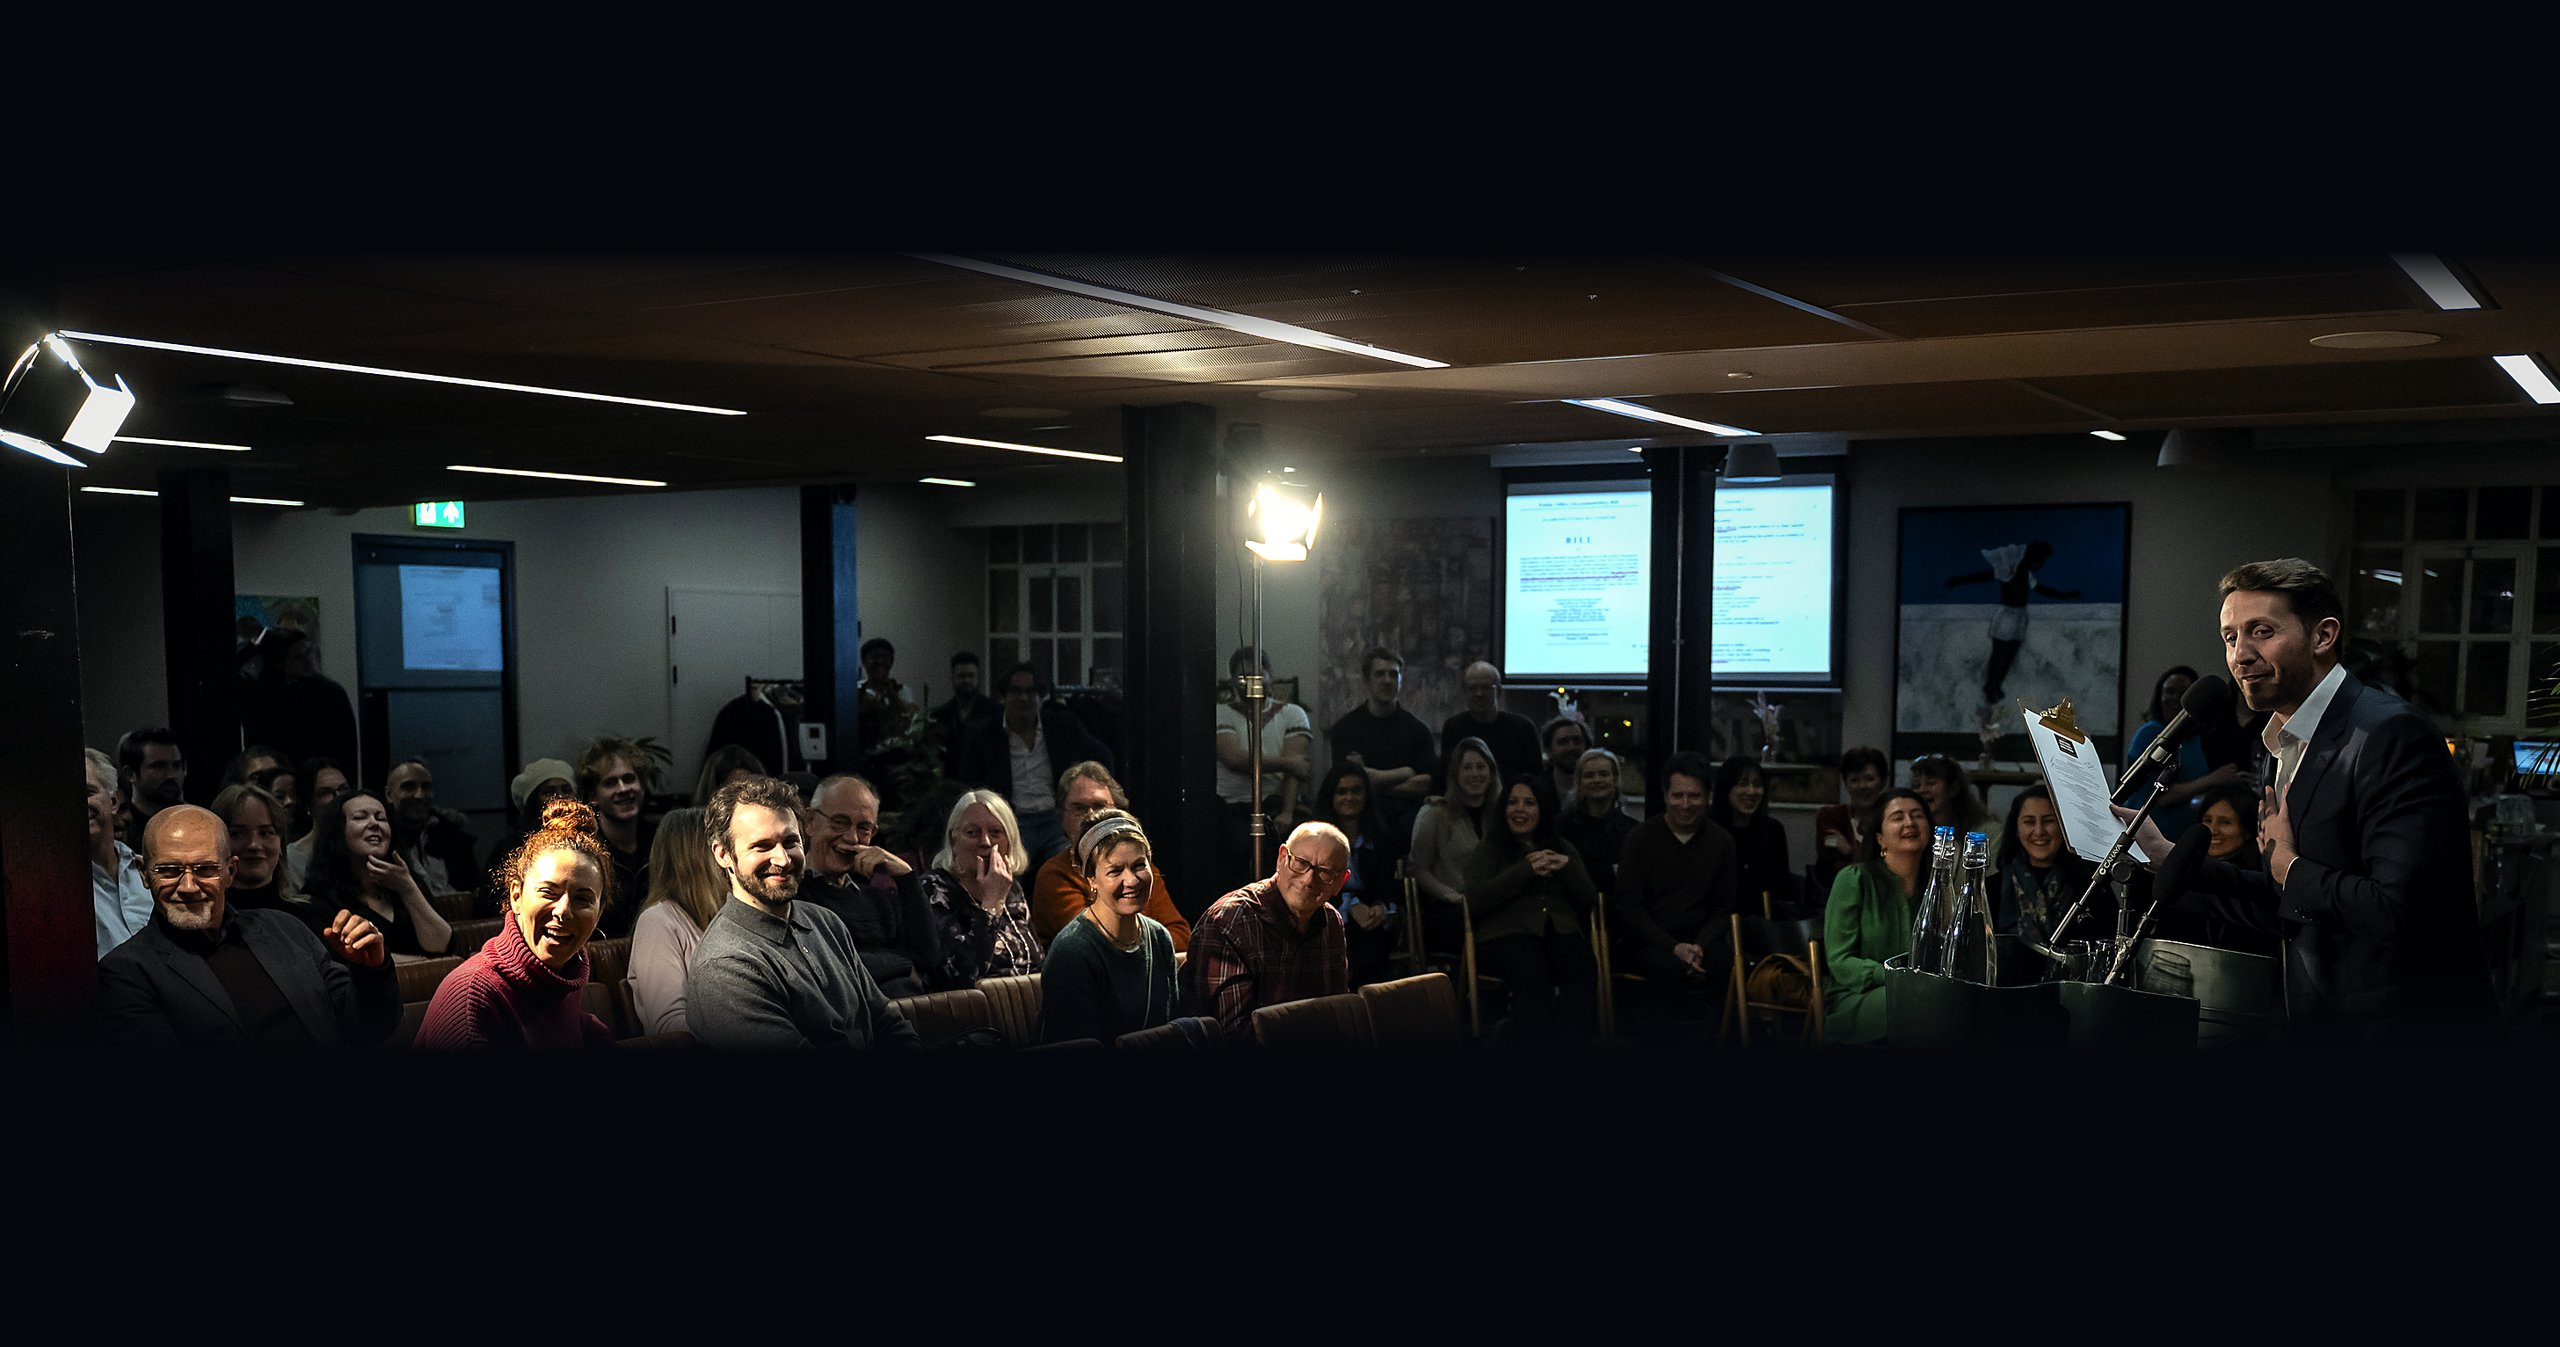
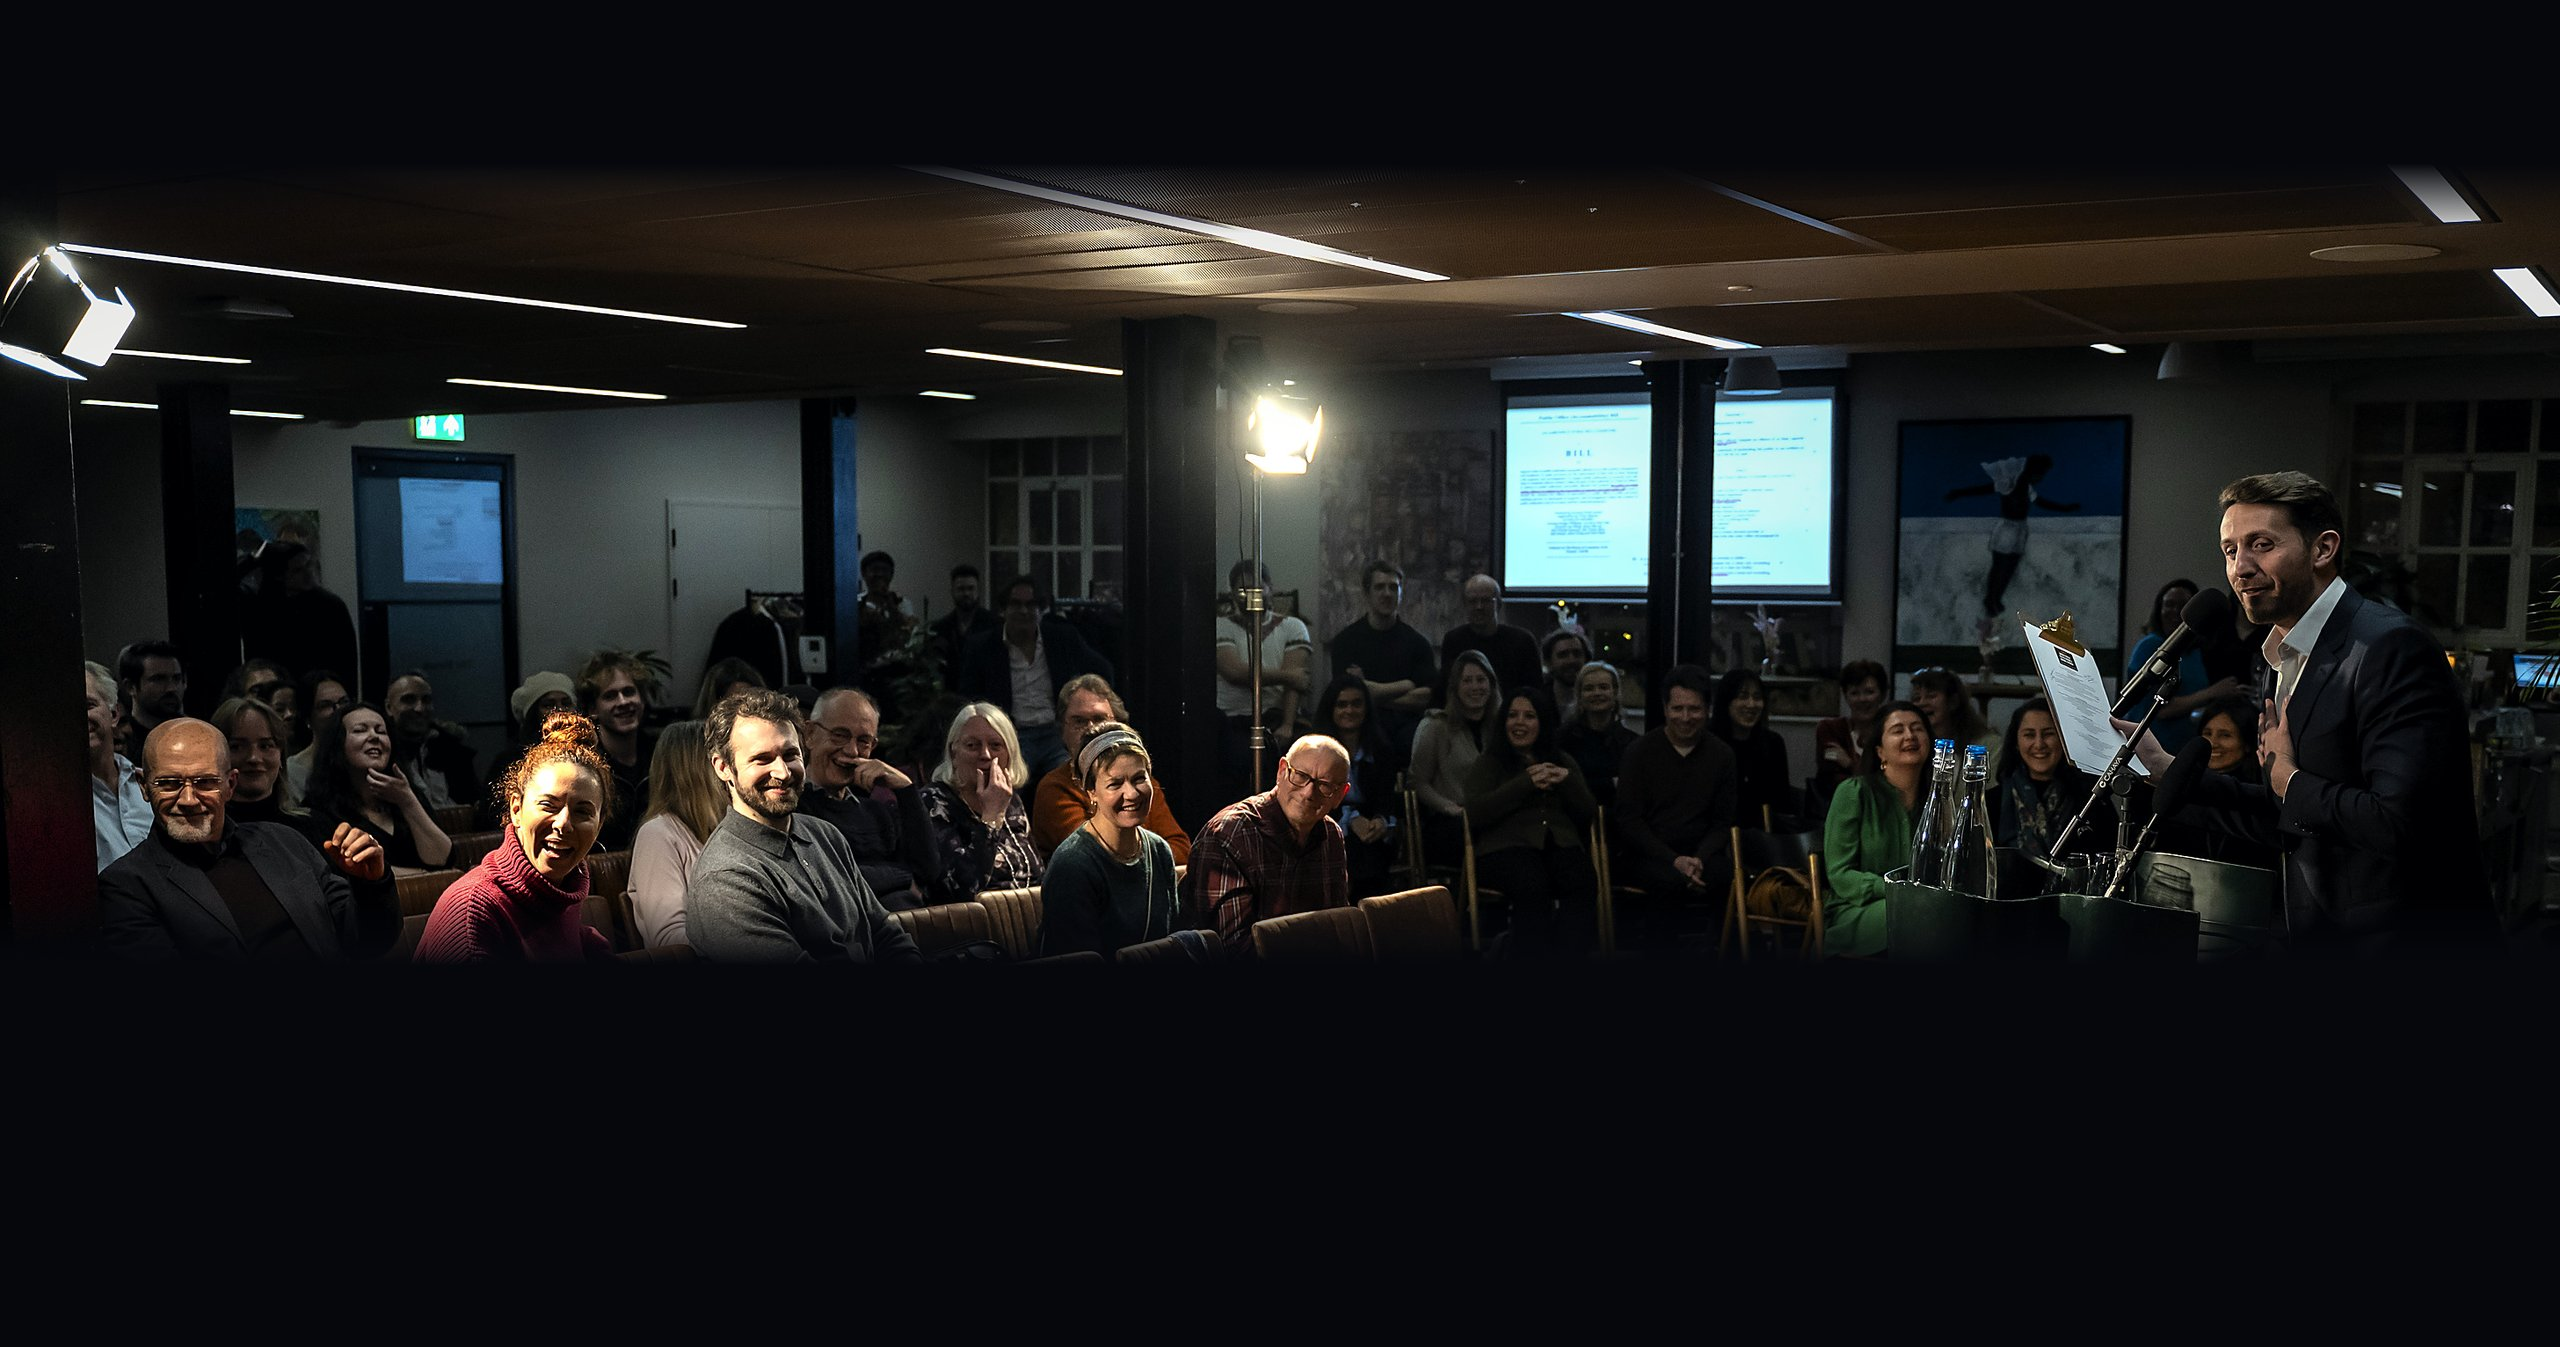
Let the audience be seen: lighter scrim, taller ticker, title back to its old height
Testimonials: the picture sits higher with a shorter feather, the left scrim and
the vignette are much lighter on this page so the laughing faces read, the ticker
is taller with bigger cards and four lines of quote, and it starts exactly where
the photograph ends. Title and Back return to 8vh, where they sat before.

Contact: lighter scrim on the left so Cathy Newman is clearly visible.

Fund button now points at execprosec.com itself.

Changed region(s): [[0.0, 0.1247, 1.0, 0.7795]]

diff --git a/index.html b/index.html
@@ -55,6 +55,20 @@
   .phead{display:block;font-size:14.5px;color:#fff;line-height:1.5}
   .prow:hover .phead{color:var(--gold)}
   @media(max-width:720px){.presspanel{left:22px;right:22px;width:auto;max-width:none}}
+  /* testimonials: the panel is short now, so pin it back to the height the title used to sit at */
+  @media(min-width:901px){body.lp-k-testimonials .presspanel{top:8vh;bottom:auto;transform:none;
+    max-height:none}}
+  /* let the faces come through: a much lighter scrim on the pages whose picture is the point */
+  @media(min-width:901px){
+    body.lp-k-testimonials .hero .grad{background:linear-gradient(95deg,rgba(5,7,12,.86) 0%,
+      rgba(5,7,12,.60) 22%,rgba(5,7,12,.26) 40%,rgba(5,7,12,.06) 58%,rgba(5,7,12,0) 76%)}
+    body.lp-k-testimonials .hero .vig{background:
+      radial-gradient(120% 110% at 60% 40%,rgba(0,0,0,0) 40%,rgba(0,0,0,.18) 70%,rgba(0,0,0,.52) 100%),
+      linear-gradient(180deg,rgba(0,0,0,.42) 0%,rgba(0,0,0,.06) 12%,rgba(0,0,0,0) 26%),
+      linear-gradient(0deg,#05070C 0%,rgba(5,7,12,.68) 14%,rgba(5,7,12,0) 32%)}
+    body.lp-k-contact .hero .grad{background:linear-gradient(95deg,rgba(5,7,12,.72) 0%,
+      rgba(5,7,12,.46) 20%,rgba(5,7,12,.20) 38%,rgba(5,7,12,.05) 56%,rgba(5,7,12,0) 74%)}
+  }
   /* contact: drop the box to the foot of the page so the interview photograph is not covered */
   @media(min-width:901px){body.lp-contact .presspanel{top:auto;bottom:54px;transform:none;width:54%;max-width:720px;max-height:none}}
   .photo-note{position:absolute;right:16px;bottom:14px;z-index:5;font-size:10.5px;letter-spacing:.1em;text-transform:uppercase;color:rgba(255,255,255,.32)}
@@ -224,13 +238,13 @@
 @media(max-width:600px){.mjb-sq{gap:0}.mjb-sqcol:nth-child(2){display:none}.mjb-sqcol{max-width:none}}
 @media(prefers-reduced-motion:reduce){.mjb-sqcolinner{animation:none}}
   /* wide screens: the quotes run along the bottom shadow instead of stacking up the page */
-  #tq-strip{position:fixed;left:0;right:0;bottom:56px;height:150px;z-index:8;overflow:hidden;display:flex;align-items:flex-end;pointer-events:none;-webkit-mask-image:linear-gradient(to right,transparent 0,#000 7%,#000 93%,transparent 100%);mask-image:linear-gradient(to right,transparent 0,#000 7%,#000 93%,transparent 100%)}
+  #tq-strip{position:fixed;left:0;right:0;bottom:48px;height:178px;z-index:8;overflow:hidden;display:flex;align-items:flex-end;pointer-events:none;-webkit-mask-image:linear-gradient(to right,transparent 0,#000 7%,#000 93%,transparent 100%);mask-image:linear-gradient(to right,transparent 0,#000 7%,#000 93%,transparent 100%)}
   #tq-strip .tq-row{display:flex;gap:14px;will-change:transform;animation:tqRun linear infinite;pointer-events:auto}
   #tq-strip:hover .tq-row{animation-play-state:paused}
   @keyframes tqRun{from{transform:translateX(0)}to{transform:translateX(-50%)}}
-  .tq-card{flex:0 0 300px;background:rgba(255,255,255,.05);border:1px solid rgba(255,255,255,.10);border-radius:2px;padding:12px 14px;transition:background .25s ease,border-color .25s ease}
+  .tq-card{flex:0 0 330px;background:rgba(255,255,255,.05);border:1px solid rgba(255,255,255,.10);border-radius:2px;padding:16px 18px;transition:background .25s ease,border-color .25s ease}
   .tq-card:hover{background:rgba(255,255,255,.09);border-color:rgba(255,255,255,.2)}
-  .tq-card p{font-size:13.5px;line-height:1.55;color:rgba(255,255,255,.85);margin:0 0 6px;display:-webkit-box;-webkit-line-clamp:3;-webkit-box-orient:vertical;overflow:hidden}
+  .tq-card p{font-size:14.5px;line-height:1.62;color:rgba(255,255,255,.9);margin:0 0 8px;display:-webkit-box;-webkit-line-clamp:4;-webkit-box-orient:vertical;overflow:hidden}
   .tq-name{font-size:11.5px;letter-spacing:.05em;color:var(--gold)}
   @media(max-width:900px){#tq-strip{display:none}}
 nav a.nav-cta{background:#fff;color:#05070C;padding:10px 20px;border-radius:2px;font-weight:600;opacity:1;letter-spacing:.16em;box-shadow:none;transition:transform .2s ease,background .2s ease}
@@ -346,7 +360,7 @@ nav a.nav-cta:hover{color:#05070C;opacity:1;transform:translateY(-2px);backgroun
       <a href="https://www.execprosec.com" target="_blank" rel="noopener">ExecProsec</a>
       <a href="https://radiatorproductions.com" target="_blank" rel="noopener">Radiator</a>
       <button onclick="openLeft('contact')">Contact</button>
-      <a class="nav-cta" href="https://www.execprosec.com/story/1" target="_blank" rel="noopener">Fund Marcus&rsquo;s work</a>
+      <a class="nav-cta" href="https://www.execprosec.com" target="_blank" rel="noopener">Fund Marcus&rsquo;s work</a>
     </nav>
   </header>
 
@@ -558,6 +572,8 @@ function openLeft(kind, fromRoute){
   var cfg=LEFT[kind]; if(!cfg) return;
   try{ tqStripKill(); }catch(e){}
   try{ document.body.classList.add('lp-open');
+       document.body.className=document.body.className.replace(/(^|\s)lp-k-\S+/g,' ').trim();
+       document.body.classList.add('lp-k-'+kind);
        document.body.classList.toggle('lp-contact', kind==='contact'); }catch(e){}
   var panel=document.getElementById('leftpanel'), cov=document.querySelector('.covered'), body=document.getElementById('leftBody');
   document.getElementById('leftTitle').textContent=cfg.title;
@@ -568,7 +584,8 @@ function openLeft(kind, fromRoute){
 }
 function closeLeft(fromRoute){
   try{ tqStripKill(); }catch(e){}
-  try{ document.body.classList.remove('lp-open'); document.body.classList.remove('lp-contact'); }catch(e){}
+  try{ document.body.classList.remove('lp-open'); document.body.classList.remove('lp-contact');
+       document.body.className=document.body.className.replace(/(^|\s)lp-k-\S+/g,' ').trim(); }catch(e){}
   document.getElementById('leftpanel').classList.remove('open');
   document.querySelector('.covered').style.display='';
   if(!fromRoute){ try{ history.pushState({}, '', '/'); }catch(e){} }
@@ -723,7 +740,7 @@ function mjbToggleNav(force){
   var BG={
     home:{img:'mjb-home.jpg',size:'cover',pos:'50% 32%',mpos:'50% 30%'},
     bio:{img:'photos/lectern-portrait.jpg',size:'cover',pos:'76% 30%',mpos:'72% 26%'},
-    testimonials:{img:'photos/audience-laugh.jpg',size:'cover',pos:'50% 50%',mpos:'62% 50%'},
+    testimonials:{img:'photos/audience-laugh.jpg',size:'cover',pos:'50% 42%',mpos:'62% 46%'},
     press:{img:'photos/court-interview.jpg',size:'cover',pos:'36% 44%',mpos:'38% 40%'},
     contact:{img:'photos/channel4-interview.jpg',size:'cover',pos:'78% 35%',mpos:'80% 30%'},
     photos:{img:'photos/room-from-the-back.jpg',size:'cover',pos:'50% 46%',mpos:'54% 44%'}
